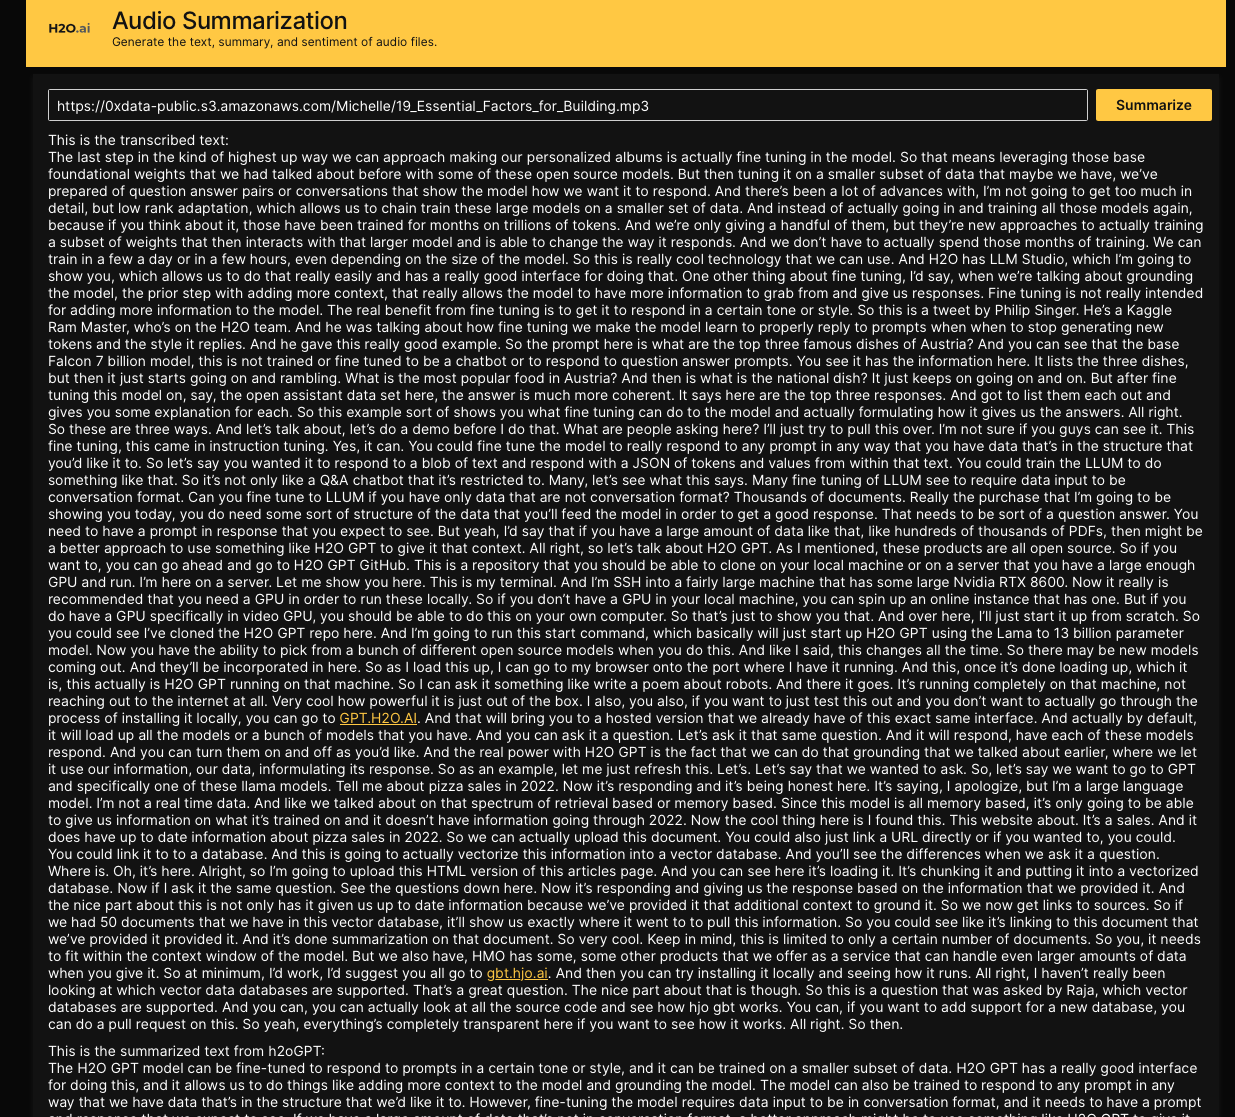
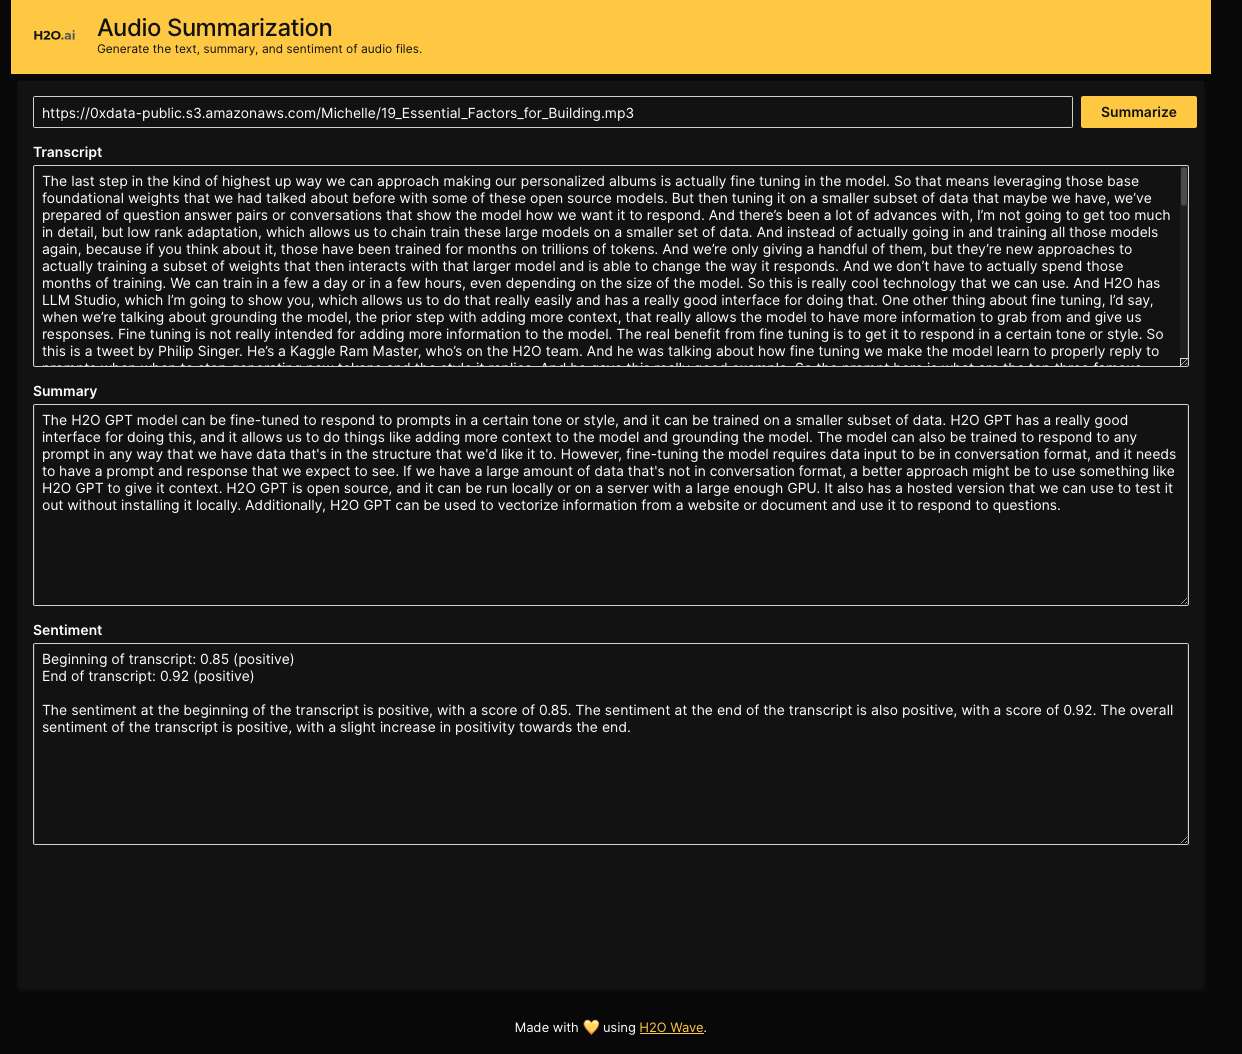
Changes to the UI and adding analytics

diff --git a/transcription-summarize/app.py b/transcription-summarize/app.py
@@ -7,6 +7,7 @@ from time import time
 
 import whisper
 from gradio_client import Client
+import hashlib
 from h2o_wave import app, Q, ui, main, on, run_on
 from loguru import logger
 
@@ -33,6 +34,13 @@ async def init(q: Q) -> None:
         box='',
         title='Wave Transcription Summarize',
         theme='h2o-dark',
+        script=heap_analytics(
+            userid=q.auth.subject,
+            event_properties=f"{{"
+                             f"version: '0.0.1', "
+                             f"product: 'Wave Transcription Summarize'"
+                             f"}}",
+        ),
         layouts=[
             ui.layout(
                 breakpoint='xs',
@@ -139,12 +147,42 @@ def create_summarize_ui(q):
         ]),
     ]
     if q.client.raw_text is not None:
-        items.append(ui.text('This is the transcribed text:<br>{}<br>'.format(q.client.raw_text)))
+        items.append(ui.copyable_text(label="Transcript", value=q.client.raw_text, multiline=True, height="200px"))
 
     if q.client.summarize is not None:
-        items.append(ui.text(q.client.summarize[0] + ':<br>' + q.client.summarize[1].strip()))
+        items.append(ui.copyable_text(
+            label="Summary",
+            value=q.client.summarize[1].strip(),
+            multiline=True,
+            height="200px"
+        ))
 
     if q.client.sentiment is not None:
-        items.append(ui.text('<br>' + q.client.sentiment[0] + ':<br>' + q.client.sentiment[1].strip()))
+        items.append(ui.copyable_text(
+            label="Sentiment",
+            value=q.client.sentiment[1].strip(),
+            multiline=True,
+            height="200px"
+        ))
 
     return items
+
+
+def heap_analytics(userid, event_properties=None) -> ui.inline_script:
+
+    if "HEAP_ID" not in os.environ:
+        return
+    heap_id = os.getenv("HEAP_ID")
+    script = f"""
+window.heap=window.heap||[],heap.load=function(e,t){{window.heap.appid=e,window.heap.config=t=t||{{}};var r=document.createElement("script");r.type="text/javascript",r.async=!0,r.src="https://cdn.heapanalytics.com/js/heap-"+e+".js";var a=document.getElementsByTagName("script")[0];a.parentNode.insertBefore(r,a);for(var n=function(e){{return function(){{heap.push([e].concat(Array.prototype.slice.call(arguments,0)))}}}},p=["addEventProperties","addUserProperties","clearEventProperties","identify","resetIdentity","removeEventProperty","setEventProperties","track","unsetEventProperty"],o=0;o<p.length;o++)heap[p[o]]=n(p[o])}};
+heap.load("{heap_id}"); 
+    """
+
+    if userid is not None:  # is OIDC Enabled? we do not want to identify all non-logged in users as "none"
+        identity = hashlib.sha256(userid.encode()).hexdigest()
+        script += f"heap.identify('{identity}');"
+
+    if event_properties is not None:
+        script += f"heap.addEventProperties({event_properties})"
+
+    return ui.inline_script(content=script)
